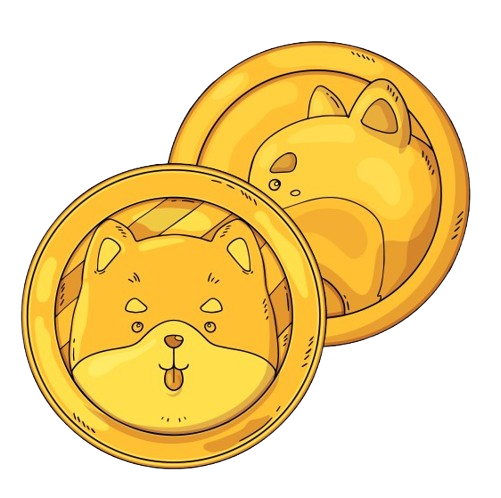
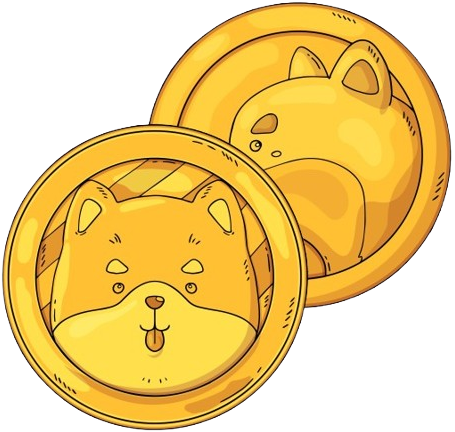
changes size of images and added bouce tailwind class in coin images

diff --git a/my-app/app/head-or-tail/page.tsx b/my-app/app/head-or-tail/page.tsx
@@ -165,13 +165,13 @@ export default function HeadOrTail() {
                   isRotating && "animate-spin"
                 )}>
                   {selectedSide === null && (
-                    <Image src="/home_images/head-or-tail.png" alt="coin" fill />
+                    <Image className='animate-bounce' src="/home_images/head-or-tail.png" alt="coin" fill />
                   )}
                   {selectedSide === 'HEAD' && (
-                    <Image src="/home_images/head.png" alt="head" fill />
+                    <Image className='animate-bounce'  src="/home_images/head.png" alt="head" fill />
                   )}
                   {selectedSide === 'TAIL' && (
-                    <Image src="/home_images/tail.png" alt="tail" fill />
+                    <Image className='animate-bounce'  src="/home_images/tail.png" alt="tail" fill />
                   )}
                 </div>
               </div>
